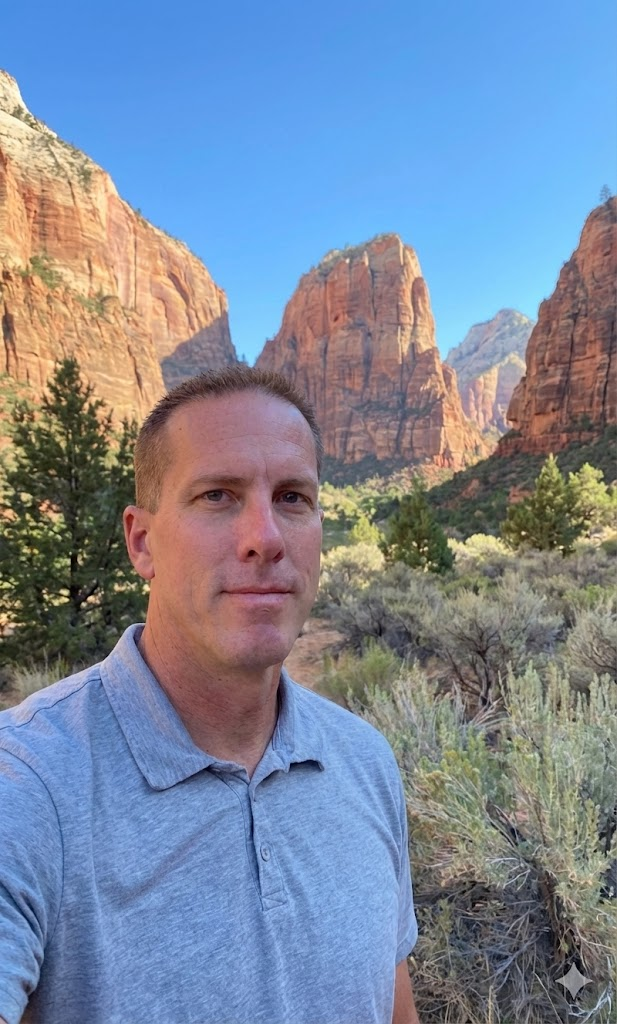
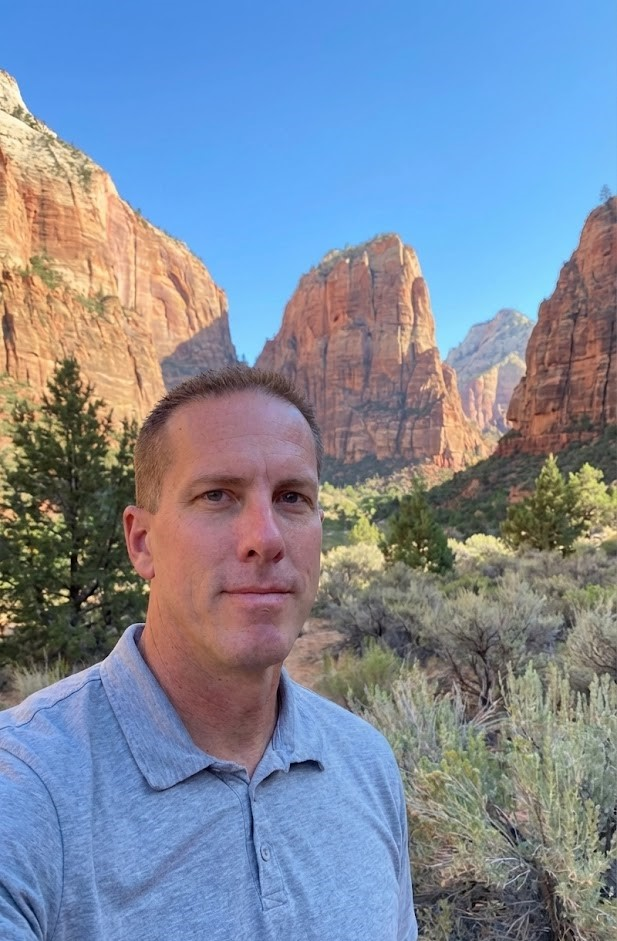
Update to production domain ziondirectcare.com
- Update CNAME to ziondirectcare.com
- Update headshot with cropped version (watermark removed)
- Update CLAUDE.md to reflect new domain and DNS provider

diff --git a/CLAUDE.md b/CLAUDE.md
@@ -6,15 +6,14 @@ This file provides guidance to Claude Code (claude.ai/code) when working with co
 
 **Zion Direct Care** - A single-page website for Adam Hyatt's mobile medical practice in Springdale, UT (near Zion National Park).
 
-**Live Site**: http://zion.refreshbiology.com (temporary preview domain)
+**Live Site**: https://ziondirectcare.com
 **GitHub Repo**: https://github.com/jonchyatt/zion-direct-care-website
-**Future Domain**: ziondirectcare.com
 
 ## Tech Stack
 
 - Static HTML/CSS/JS (no build tools)
 - GitHub Pages hosting
-- Custom domain via Cloudflare DNS
+- Custom domain via Squarespace DNS
 
 ## Project Structure
 
@@ -58,7 +57,7 @@ This file provides guidance to Claude Code (claude.ai/code) when working with co
 ## Pending Tasks
 
 - [ ] Add Tebra scheduling link (replace `href="#"` on `id="tebra-booking"` in index.html)
-- [ ] Set up final domain (ziondirectcare.com)
+- [x] Set up final domain (ziondirectcare.com)
 - [ ] Consider adding Google Analytics
 
 ## Commands
